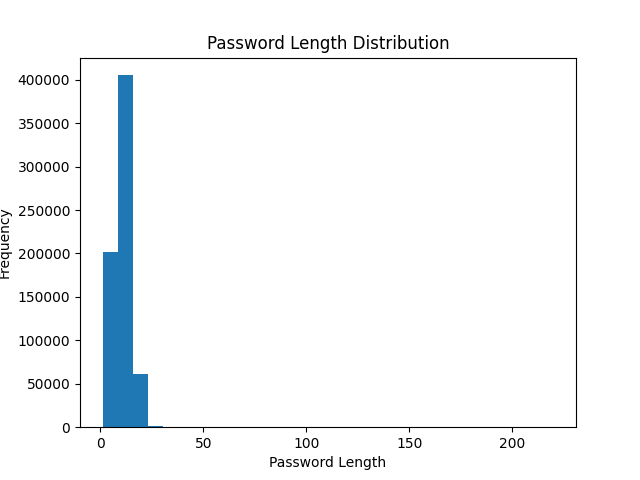
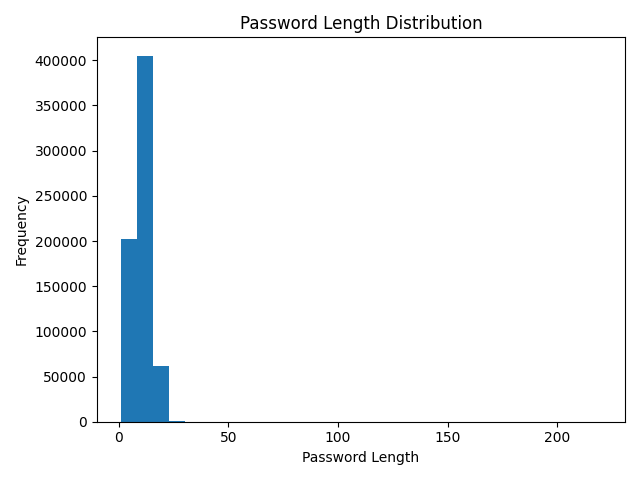
perf: optimization and polish complete

Changed region(s): [[0.0, 0.0938, 0.9062, 1.0], [0.3125, 0.0312, 0.75, 0.125]]

diff --git a/src/encryption.py b/src/encryption.py
@@ -28,14 +28,46 @@ def check_password_strength(password):
         return "Strong"
 
 
-if not os.path.exists(KEY_FILE):
-    key = Fernet.generate_key()
-    with open(KEY_FILE, "wb") as f:
-        f.write(key)
+def load_key():
+    if not os.path.exists(KEY_FILE):
+        key = Fernet.generate_key()
+        with open(KEY_FILE, "wb") as f:
+            f.write(key)
 
-with open(KEY_FILE, "rb") as f:
-    key = f.read()
+    with open(KEY_FILE, "rb") as f:
+        return f.read()
 
+
+def save_password(website, password):
+    encrypted_password = fernet.encrypt(password.encode()).decode()
+
+    with open(PASSWORD_FILE, "a") as f:
+        f.write(f"{website},{encrypted_password}\n")
+
+
+def view_passwords():
+    if not os.path.exists(PASSWORD_FILE) or os.path.getsize(PASSWORD_FILE) == 0:
+        print("No saved passwords found. Add a password first.")
+        return
+
+    with open(PASSWORD_FILE, "r") as f:
+        print("\nSaved Passwords")
+        print("-" * 35)
+
+        for line in f:
+            try:
+                website, encrypted_password = line.strip().split(",")
+                decrypted_password = fernet.decrypt(encrypted_password.encode()).decode()
+
+                print(f"Website: {website}")
+                print(f"Password: {decrypted_password}")
+                print("-" * 35)
+
+            except Exception:
+                print("Error: One saved password record is corrupted. Skipping it.")
+
+
+key = load_key()
 fernet = Fernet(key)
 
 
@@ -52,7 +84,7 @@ while True:
 
     if choice == "1":
         print("Opening save password section...")
-        time.sleep(1)
+        time.sleep(0.5)
 
         website = input("Website Name: ")
         password = input("Password: ")
@@ -65,37 +97,21 @@ while True:
         print(f"Password Strength: {strength}")
 
         print("Saving password securely...")
-        time.sleep(1)
+        time.sleep(0.5)
 
-        encrypted_password = fernet.encrypt(password.encode()).decode()
-
-        with open(PASSWORD_FILE, "a") as f:
-            f.write(f"{website},{encrypted_password}\n")
+        save_password(website, password)
 
         print("Password saved successfully.")
 
     elif choice == "2":
         print("Loading saved passwords...")
-        time.sleep(1)
+        time.sleep(0.5)
 
-        if not os.path.exists(PASSWORD_FILE) or os.path.getsize(PASSWORD_FILE) == 0:
-            print("No saved passwords found. Add a password first.")
-        else:
-            with open(PASSWORD_FILE, "r") as f:
-                print("\nSaved Passwords")
-                print("-" * 35)
-
-                for line in f:
-                    website, encrypted_password = line.strip().split(",")
-                    decrypted_password = fernet.decrypt(encrypted_password.encode()).decode()
-
-                    print(f"Website: {website}")
-                    print(f"Password: {decrypted_password}")
-                    print("-" * 35)
+        view_passwords()
 
     elif choice == "3":
         print("Closing Password Manager...")
-        time.sleep(1)
+        time.sleep(0.5)
         print("Goodbye!")
         break
 

diff --git a/src/tempCodeRunnerFile.py b/src/tempCodeRunnerFile.py
@@ -1,0 +1,47 @@
+import pandas as pd
+import matplotlib.pyplot as plt
+import os
+
+BASE_DIR = os.path.dirname(os.path.dirname(os.path.abspath(__file__)))
+DATA_PATH = os.path.join(BASE_DIR, "data", "data.csv")
+DOCS_PATH = os.path.join(BASE_DIR, "docs")
+
+# Dataset load
+df = pd.read_csv(DATA_PATH, on_bad_lines="skip")
+
+# Missing values remove
+df = df.dropna()
+
+print("Shape:")
+print(df.shape)
+
+print("\nMissing Values:")
+print(df.isnull().sum())
+
+print("\nFirst 5 Rows:")
+print(df.head())
+
+# Password length feature
+df["password_length"] = df["password"].apply(len)
+
+print("\nGraph code is running...")
+
+# Graph 1: Password Strength Distribution
+df["strength"].value_counts().plot(kind="bar")
+plt.title("Password Strength Distribution")
+plt.xlabel("Strength")
+plt.ylabel("Count")
+plt.savefig(os.path.join(DOCS_PATH, "password_strength_distribution.png"))
+plt.show()
+
+# Graph 2: Password Length Distribution
+df["password_length"].plot(kind="hist", bins=30)
+plt.title("Password Length Distribution")
+plt.xlabel("Password Length")
+plt.savefig(os.path.join(DOCS_PATH, "password_length_distribution.png"))
+plt.show()
+
+# Graph 3: Password Length Boxplot
+df.boxplot(column="password_length")
+plt.title("Password Length Boxplot")
+plt.show()